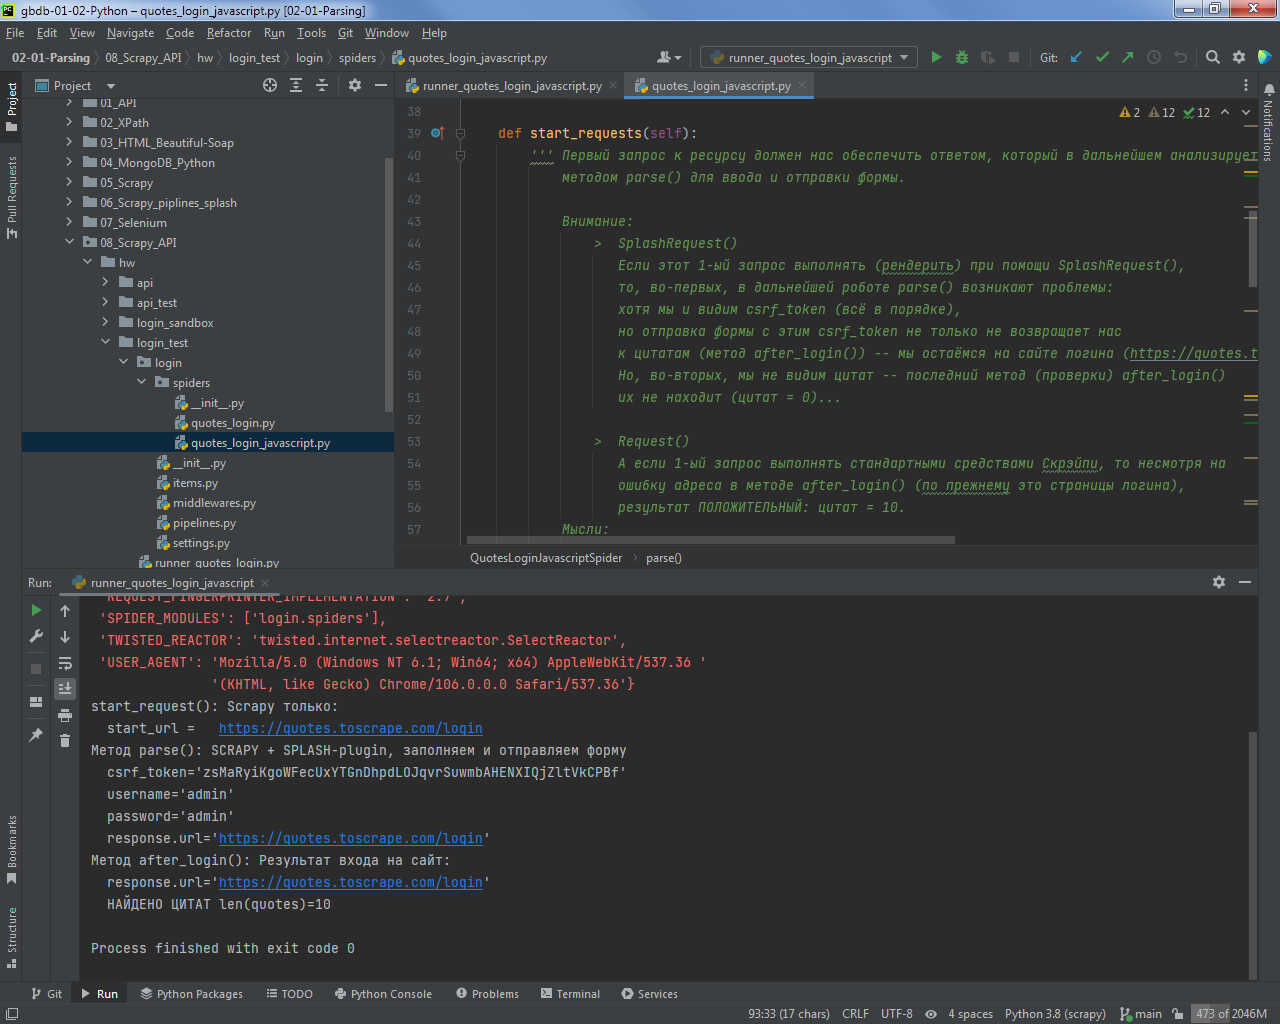
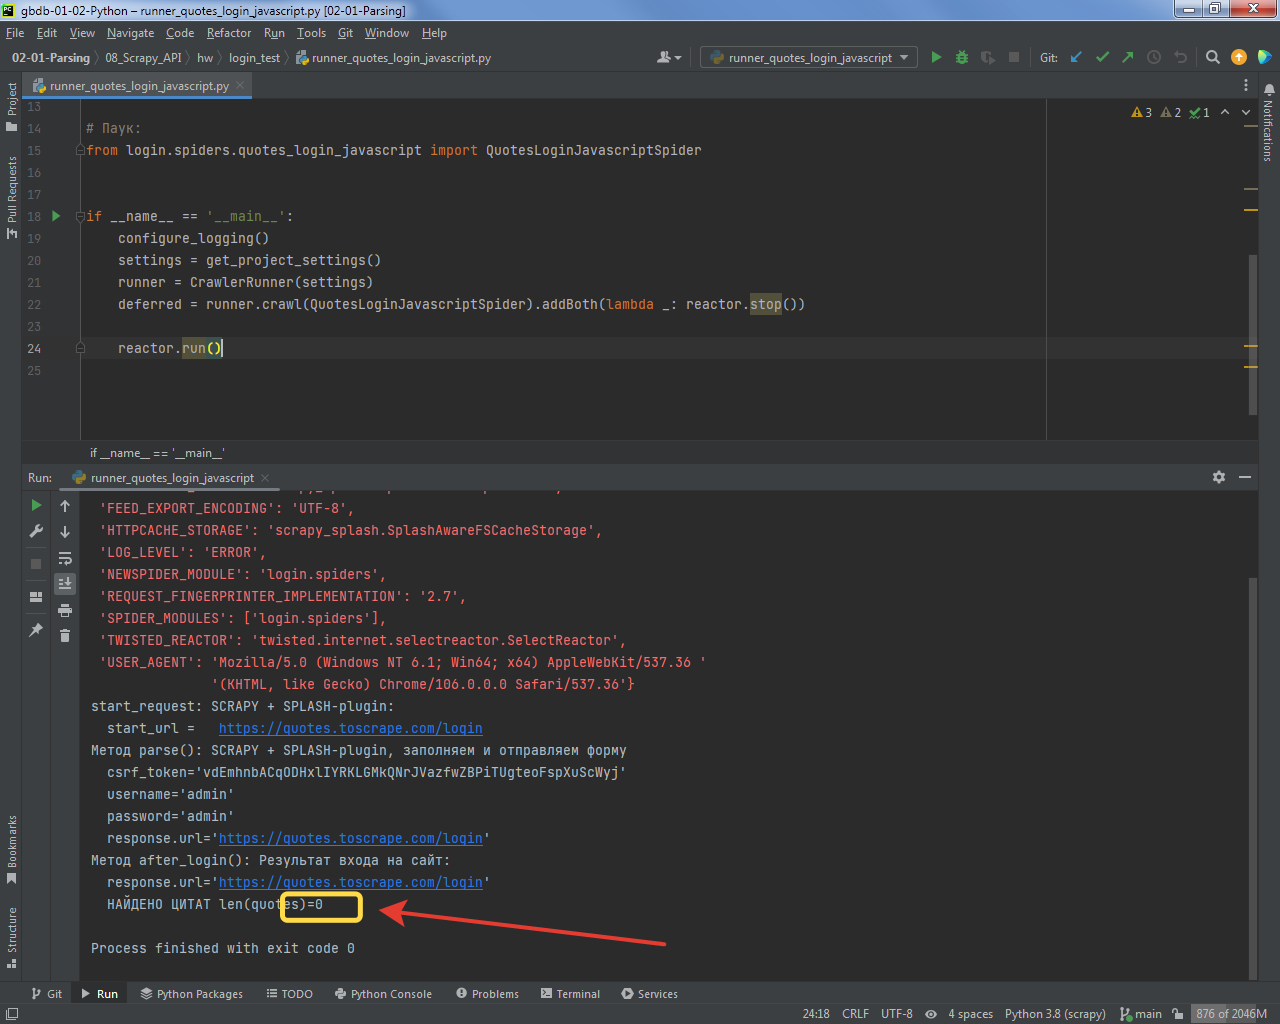
splash ON and quotes=0

diff --git a/lesson-08/login_test/login/spiders/quotes_login_javascript.py b/lesson-08/login_test/login/spiders/quotes_login_javascript.py
@@ -62,7 +62,7 @@ class QuotesLoginJavascriptSpider(scrapy.Spider):
                     >> Настройки settings.py не все включены? Какие-то хитрые...
                     >> Windows-7: старая версия ОС и Сплэша...
         '''
-        if not True:
+        if True:
             print(f"start_request: SCRAPY + SPLASH-plugin:\n  start_url =   {self.start_url}")
             request = SplashRequest(
                 url=self.start_url,
